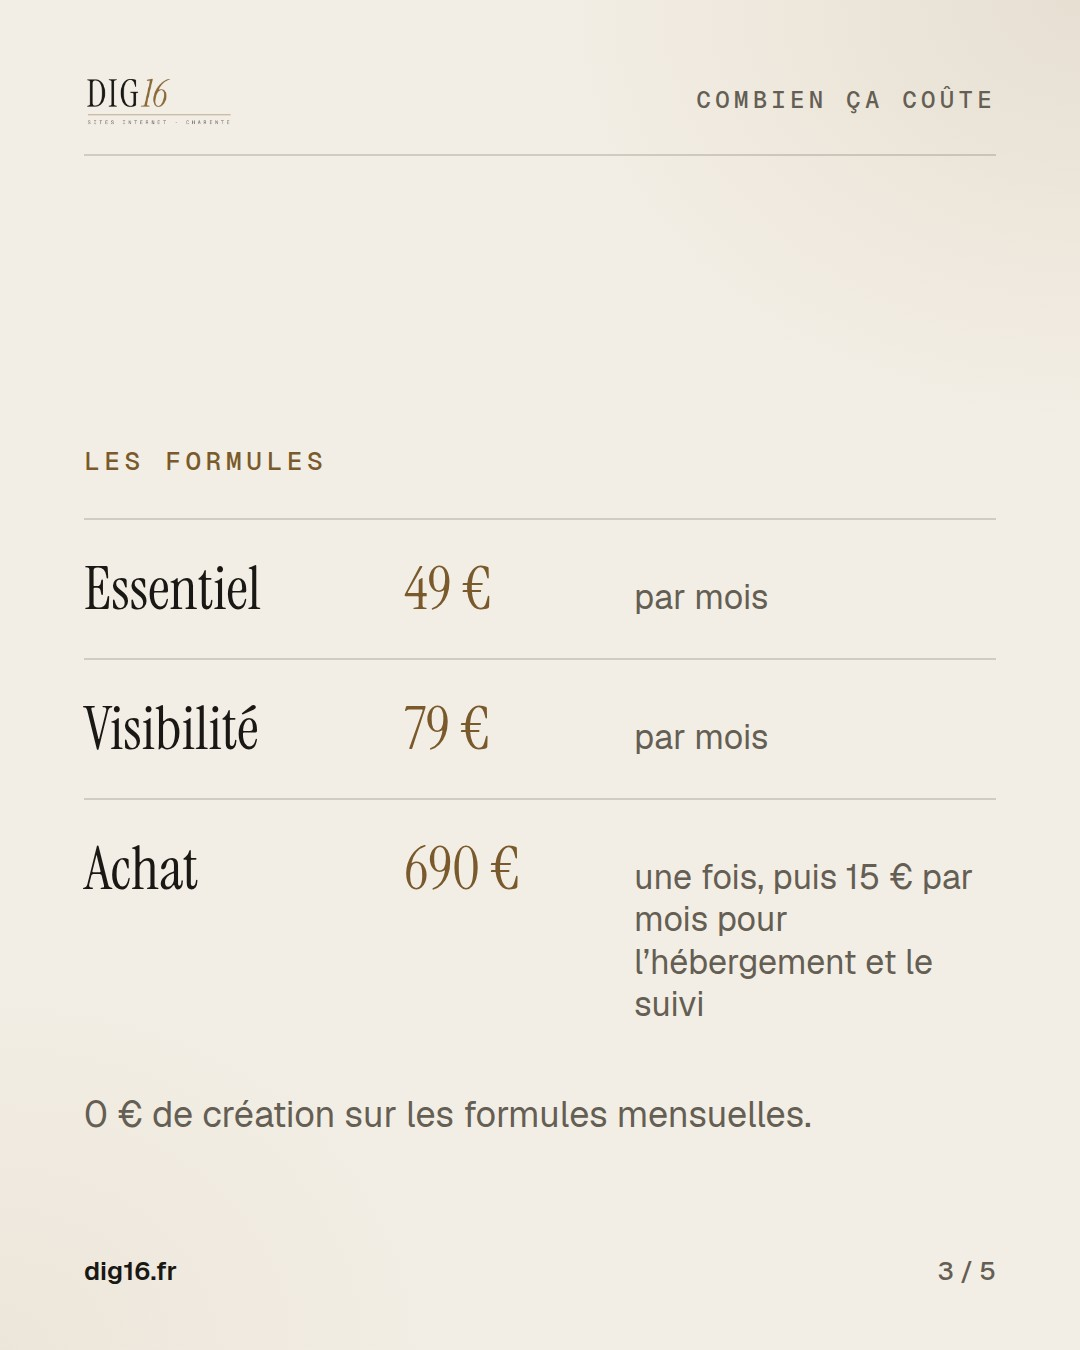
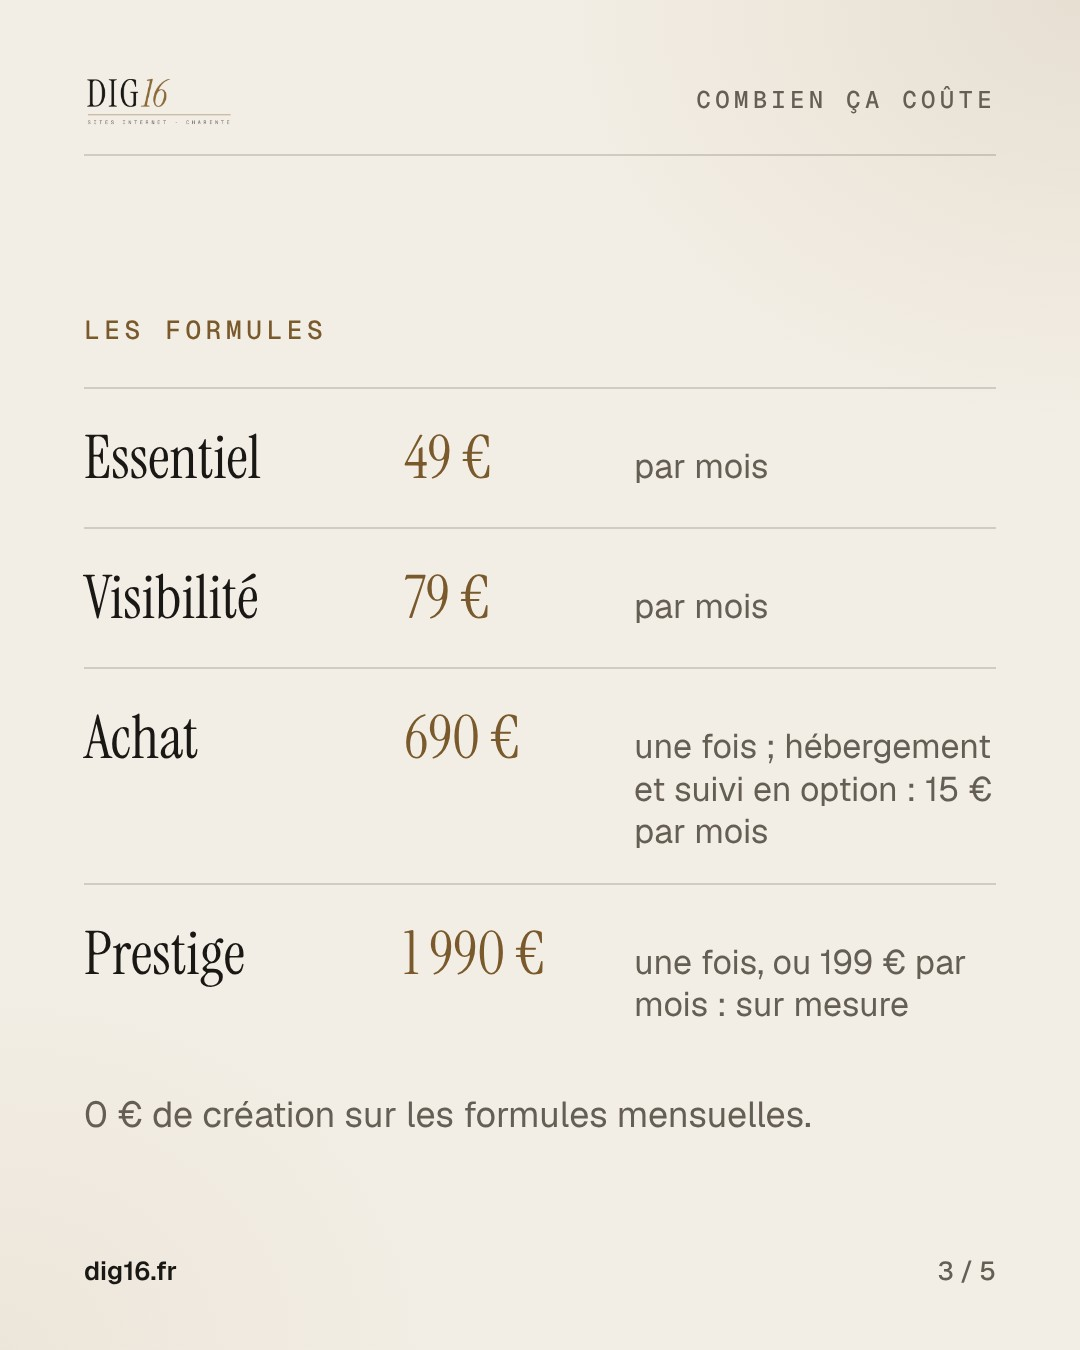
Carrousel p06 : option Achat et Prestige corrigés ; suivi du maçon (attend sa trésorerie)
Claude-Session: https://claude.ai/code/session_01HXUPij67xudweYwrEb9uHq

diff --git a/ai-business-lab/chasse-demande/outils/marque/publications_v2.py b/ai-business-lab/chasse-demande/outils/marque/publications_v2.py
@@ -371,7 +371,8 @@ def contenu(image, theme):
                 '</div>')
     if genre == "formules":
         lignes = [("Essentiel", "49 €", "par mois"), ("Visibilité", "79 €", "par mois"),
-                  ("Achat", "690 €", "une fois, puis 15 € par mois pour l'hébergement et le suivi")]
+                  ("Achat", "690 €", "une fois ; hébergement et suivi en option : 15 € par mois"),
+                  ("Prestige", "1 990 €", "une fois, ou 199 € par mois : sur mesure")]
         rangs = "".join(f'<div class="formule"><b>{a}</b><span class="m">{b}</span><span>{insecables(c)}</span></div>'
                         for a, b, c in lignes)
         return (f'<div class="corps bas"><div class="etq2">Les formules</div>{rangs}'

diff --git a/ai-business-lab/chasse-demande/64-mise-en-ordre-administrative.md b/ai-business-lab/chasse-demande/64-mise-en-ordre-administrative.md
@@ -25,7 +25,9 @@ Bluesky (rangés dans `63`). Toute tâche de l'utilisateur, quelle que soit sa s
 |---|---|---|---|
 | Prospection | **28/10 : appel d'un maçon de Charente-Maritime qui suit DIG16 sur Instagram** (contact chaud, sans site ni fiche Google). Fiche d'appel de 2 pages prête (registre, annonces légales, Google, nom de domaine libre, déroulé, prix, objections), relue par un agent ; données dans le Drive « Dig » | l'utilisateur appelle, puis me donne le résultat | Fiche prête ; appel à faire |
 | Prospection | **28/10 : le maçon de Charente-Maritime veut une démo gratuite** : démo privée (non indexée) faite avec ses photos et son logo, validée par l'utilisateur, envoyée par mail le 28/10 à 15:14 UTC (signature jointe, vérifiée). **Rappel de l'utilisateur à 18 h** ; s'il dit oui → skill `nouveau-client` (kit complet). Les photos de la démo viennent d'Instagram : toute reconstruction après le 2/11 échouera (les fichiers actuels restent en ligne). | téléphone (utilisateur) | 28/10 |
+| Prospection | **28/10, 18 h : réponse du maçon de Charente-Maritime** : satisfait de la démo, mais il débute et attend d'avoir assez de trésorerie avant de prendre un site. Démo laissée en ligne (privée, non indexée). Relance douce prévue fin novembre (rappel programmé), jamais de pression. | Claude (rappel) | 25/11 |
 | Prospection | **28/10 : fiche d'entretien « s'il dit oui »** (3 pages : formule et prix relus sur dig16.fr, paiement, adresse du site, identité légale, décennale, médiateur, métier, zone, photos, comptes) envoyée à l'utilisateur, copie texte dans le Drive « Dig » ; relue par un agent (21 corrections). | Claude | 28/10 |
+| Réseaux | **28/10 soir : image 3 du carrousel p06 (30/10, « Combien ça coûte ») corrigée** (Achat : option à 15 € par mois, plus « puis 15 € » ; Prestige ajouté). Corrigée sur dig16.fr ; **dans Buffer, les 3 publications du 30/10 18 h 30 (Facebook, Instagram, TikTok) gardent l'ancienne image** : Zapier épuisé en octobre (100/100), donc remplacement à faire à la main dans Buffer (parcours d'aide Buffer lu le 28/10). | utilisateur, avant le 30/10 18 h 30 | à faire |
 | Prospection | **28/10 : clients partout en France, à distance** (décision de l'utilisateur : la Charente seule ne suffit pas ; il rejoint des groupes Facebook nationaux). Fait : FAQ de dig16.fr (« Et si je ne suis pas en Charente ? »), données structurées (zone France), llms.txt, CLAUDE.md. Proposé : Malt (inscription gratuite, frais 5 à 10 % HT sur les missions payées : son accord nécessaire) et Codeur.com (conditions à vérifier) | site fait par Claude ; Malt sur son « oui » | Site fait ; Malt en attente de sa réponse |
 | Administratif | Étapes 1 à 9 du tableau ci-dessous | § tableau | voir colonne État |
 | Communication | **Rendez-vous Charente Libre mardi 27/10, 9 h 30** (correspondant Nord-Charente) : fiche et aide-mémoire revérifiés et mis à jour le 26/10, 2 PDF + logo renvoyés | `supports/Dig-Presse-Charente-Libre.pdf` (aide-mémoire, pour l'utilisateur) et `supports/Dig-Presentation-DIG16.pdf` (page 1, pour le journaliste) | **27/10 : rendez-vous fait.** Avis de l'utilisateur : échange moyennement satisfaisant, interlocuteur peu à l'écoute ; si l'article est imprécis, l'utilisateur recontactera Charente Libre pour le corriger. **Surveillance quotidienne de la parution** (demande du 27/10) : rappel « Parution Charente Libre » chaque jour vers midi, heure de Paris, pendant 3 semaines, avec `outils/veille_presse.py` (Google Actualités, plan du site quand il est accessible), une recherche dans charentelibre.fr par moteur de recherche et la boîte mail. Les rubriques du site bloquent les robots (403) : on ne contourne pas. L'édition papier reste invisible pour Claude |

diff --git a/ai-business-lab/chasse-demande/connaissances/lecons.md b/ai-business-lab/chasse-demande/connaissances/lecons.md
@@ -189,3 +189,4 @@ une ligne ici**, avec la règle qui l'empêche de revenir et, si possible, un co
 - **28/10, trouvé par le relecteur (fiche d'entretien d'un maçon)** : pour un artisan du bâtiment, toujours demander dès le « oui » : adresse postale exacte (obligatoire dans les mentions légales même si le site n'affiche que la zone), assurance décennale (assureur, coordonnées, n°, **activités et zone couvertes** : n'afficher un métier, ex. toiture, que s'il est couvert), **médiateur de la consommation** (obligatoire s'il travaille pour des particuliers), nom commercial déclaré ou non, orthographe exacte du nom au registre, logo d'origine. Et décrire chaque formule exactement comme dig16.fr (« Tout l'Essentiel + … »), sans phrase qui promette un résultat Google.
 
 - **28/10, demande de l'utilisateur** : « faire en sorte que je puisse taper au clavier dessus » (fiche d'entretien). Règle : toute fiche d'appel ou d'entretien est livrée aussi en version remplissable avec `outils/pdf_remplissable.py` (blancs ____ → champs texte, ☐ → cases à cocher, cadres de notes → grandes zones de saisie via `--notes`), et un essai de remplissage est rendu en image avant envoi.
+- **28/10, trouvé au contrôle du soir** : le carrousel « Combien ça coûte » (p06, 30/10) disait « Achat 690 € une fois, puis 15 € par mois » (l'option paraissait obligatoire) et ne citait pas Prestige (règle du 21/10). Image corrigée dans `outils/marque/publications_v2.py`. Règle : à chaque changement d'offre ou de règle de présentation, chercher les prix dans **les images** des publications à venir (script `publications_v2.py`, panneau « formules »), pas seulement dans les textes ; Buffer garde l'image envoyée au moment de la programmation : une correction doit aussi être refaite dans Buffer.
